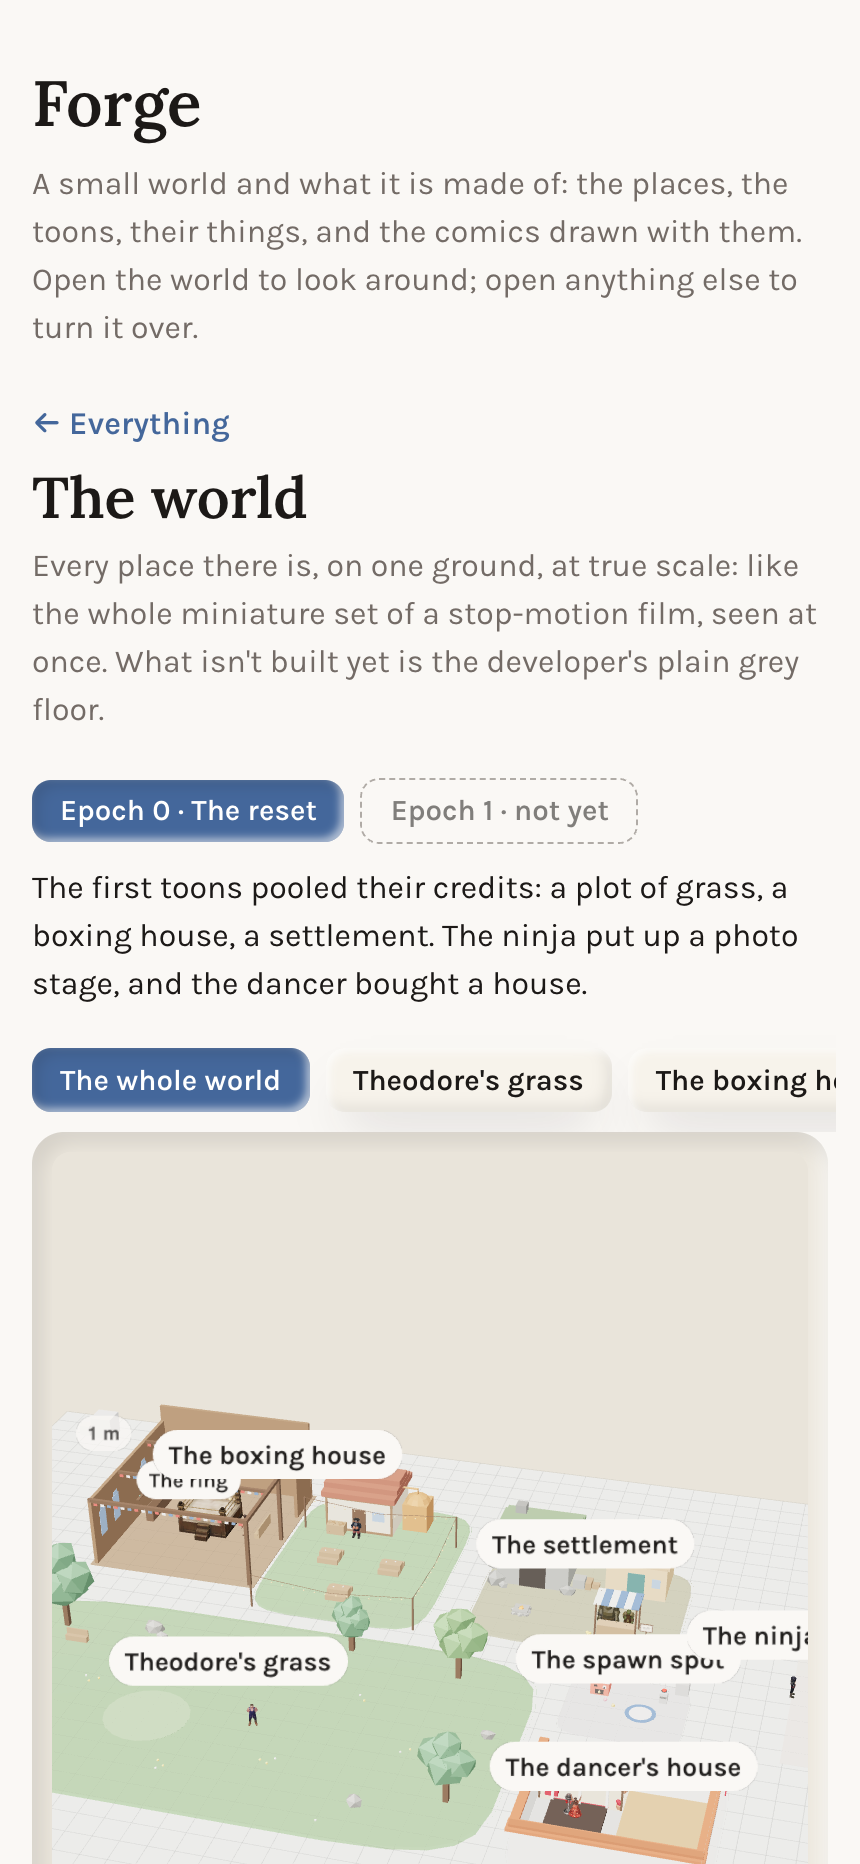
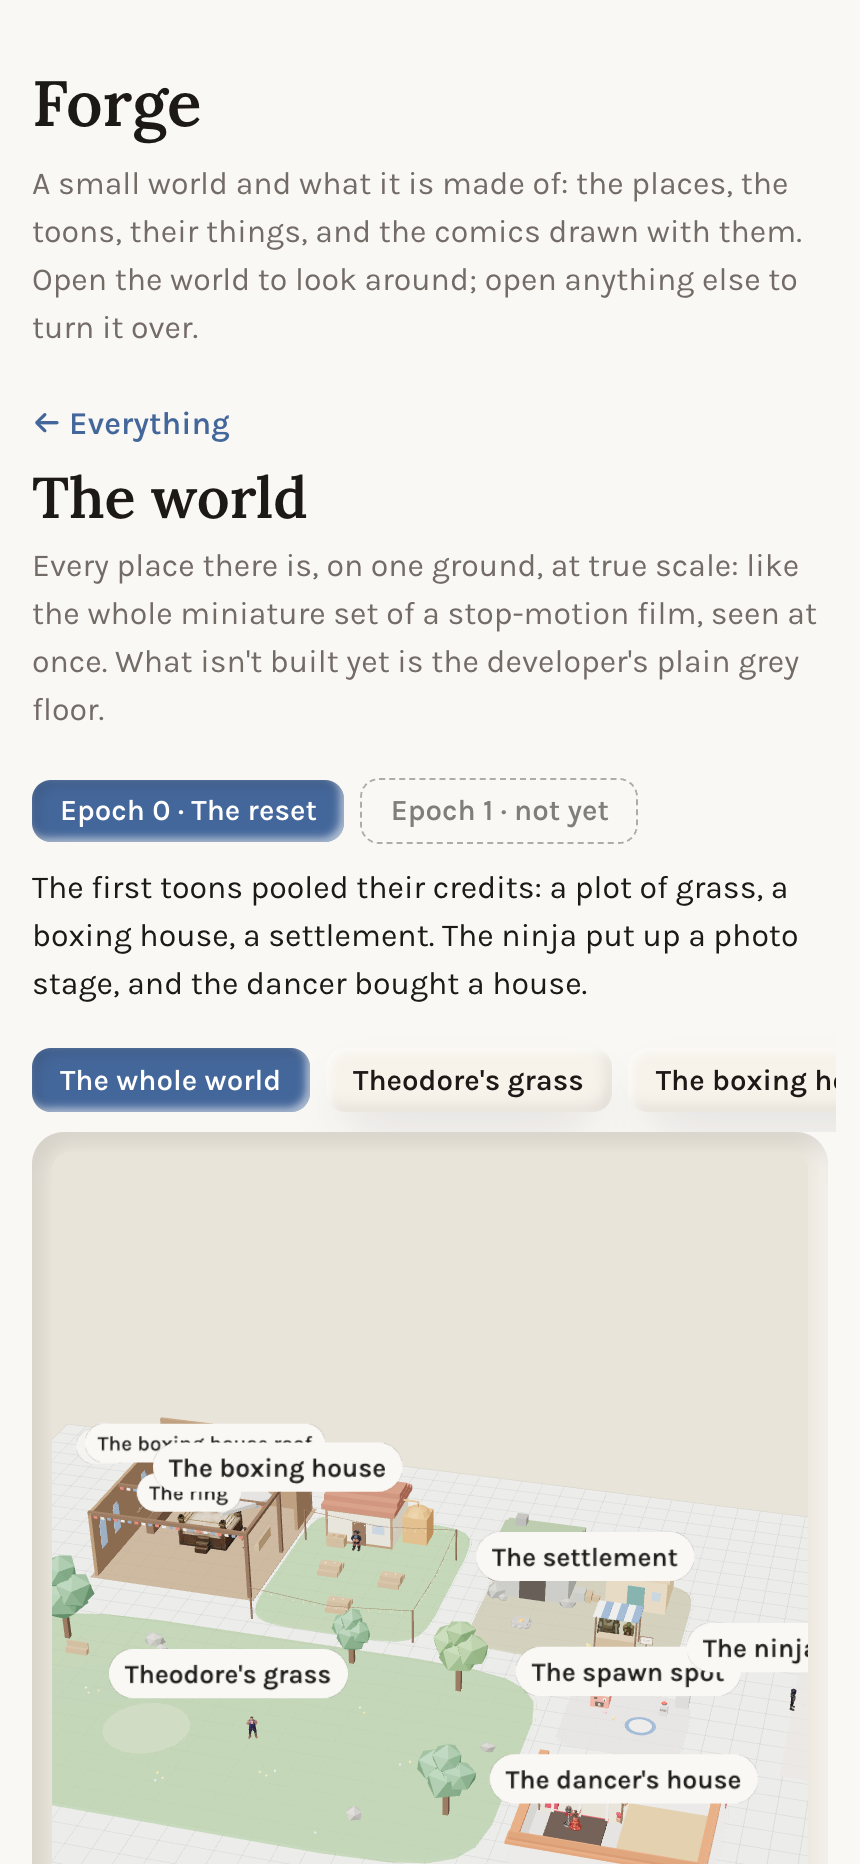
World view: a place inside another is drawn unless the outer set already carries it
The ring is the boxing house's dressing, so it was skipped correctly; the
roof isn't, so it now shows on top of the hall.

Claude-Session: https://claude.ai/code/session_01WKBeSRCQwcnvdwF1NXNhy8

Changed region(s): [[0.0605, 0.7468, 0.9372, 1.0]]

diff --git a/gallery/app.js b/gallery/app.js
@@ -759,7 +759,10 @@ class WorldViewer extends Miniature {
         inner.add(label);
         entry.label = label;
         for (const p of set.footprint.outline) all.expandByPoint(inner.localToWorld(new THREE.Vector3(p[0], 0, p[1])));
-        if (place.inside) continue; // drawn by the place it stands in (the ring is the boxing house's dressing)
+        // A place inside another is drawn by it when the outer set carries it as dressing (the ring in the boxing
+        // house); one it doesn't carry (the boxing house roof) is drawn here like any other place.
+        const outer = place.inside ? sets.find((s) => s.id === epoch.places[place.inside]?.set) : null;
+        if (outer && (outer.dressing || []).some((d) => d.set === place.set)) continue;
         if (set.glb) waiting.push(this.get(`sets/${set.id}/${set.glb}`).then((gltf) => inner.add(gltf.scene.clone(true))));
         for (const item of set.dressing || []) {
           if (item.small) continue;
